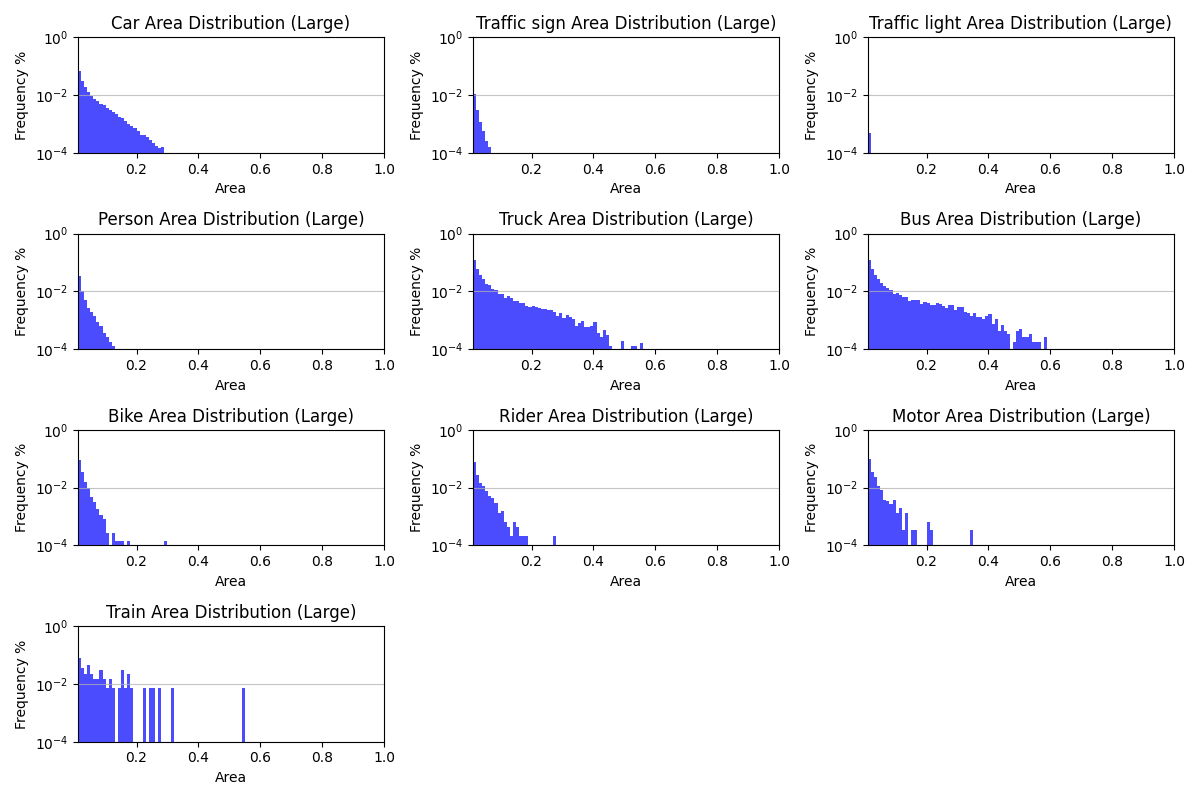
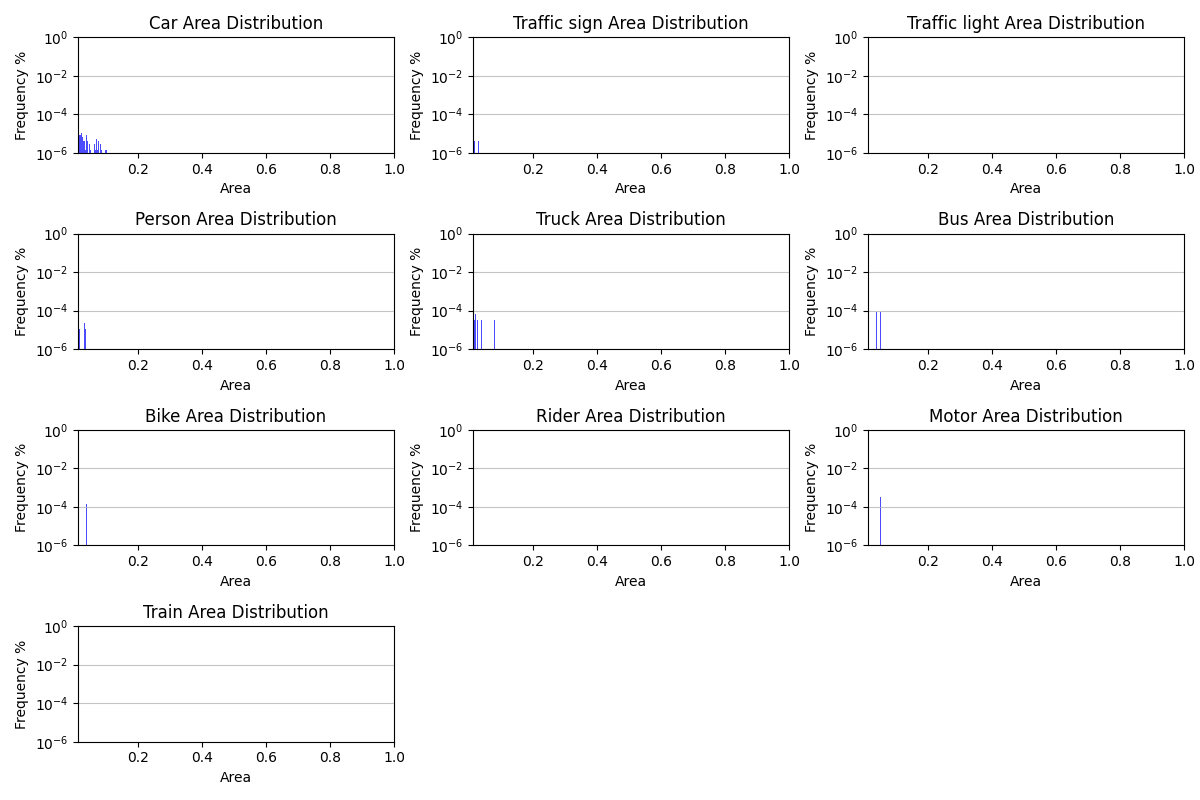
fix pdf, errror with non-uniform grid weights

diff --git a/src/task1/bbox_distribution.py b/src/task1/bbox_distribution.py
@@ -122,39 +122,31 @@ if __name__ == "__main__":
         ["medium", (small_end, medium_end)],
         ["large", (medium_end, 1)],
     ]
-    edges = np.concatenate(
-        [
-            np.linspace(0, small_end, 50, endpoint=False),
-            np.linspace(small_end, medium_end, 50, endpoint=False),
-            np.linspace(medium_end, 1, 100),
-        ]
-    )
 
+    fig = plt.figure(figsize=(12, 8))
+    for i, (class_name, areas) in enumerate(class_bbox_distribution.items()):
+        plt.subplot(4, 3, i + 1)
+        weights = np.ones(len(areas)) / len(areas)
+        plt.hist(
+            areas,
+            bins=np.arange(0, 0.2, 0.000025),
+            color="blue",
+            alpha=0.7,
+            weights=weights,
+        )
+        plt.title(f"{class_name.capitalize()} Area Distribution")
+        plt.xlabel("Area")
+        plt.ylabel("Frequency %")
+        plt.yscale("log")
+        plt.ylim(1e-6, 1)
+        plt.grid(axis="y", alpha=0.75)
+        plt.tight_layout()
+        # plt.show()
     for bin_name, (bin_start, bin_end) in size_iters:
-        fig = plt.figure(figsize=(12, 8))
         for i, (class_name, areas) in enumerate(class_bbox_distribution.items()):
             plt.subplot(4, 3, i + 1)
-            weights = np.ones(len(areas)) / len(areas)
-            plt.hist(
-                areas,
-                bins=edges,
-                color="blue",
-                alpha=0.7,
-                weights=weights,
-            )
-            plt.title(
-                f"{class_name.capitalize()} Area Distribution ({bin_name.capitalize()})"
-            )
-            plt.xlabel("Area")
-            plt.ylabel("Frequency %")
-            plt.yscale("log")
-            plt.ylim(1e-4, 1)
-            plt.grid(axis="y", alpha=0.75)
-            plt.tight_layout()
             plt.xlim(bin_start, bin_end)
-        # plt.show()
         plt.savefig(f"src/task1/images/bbox_area_distribution_{bin_name}.png")
-        plt.close()
 
     iterations = [[train_files, "Train"], [val_files, "Validation"]]
 
